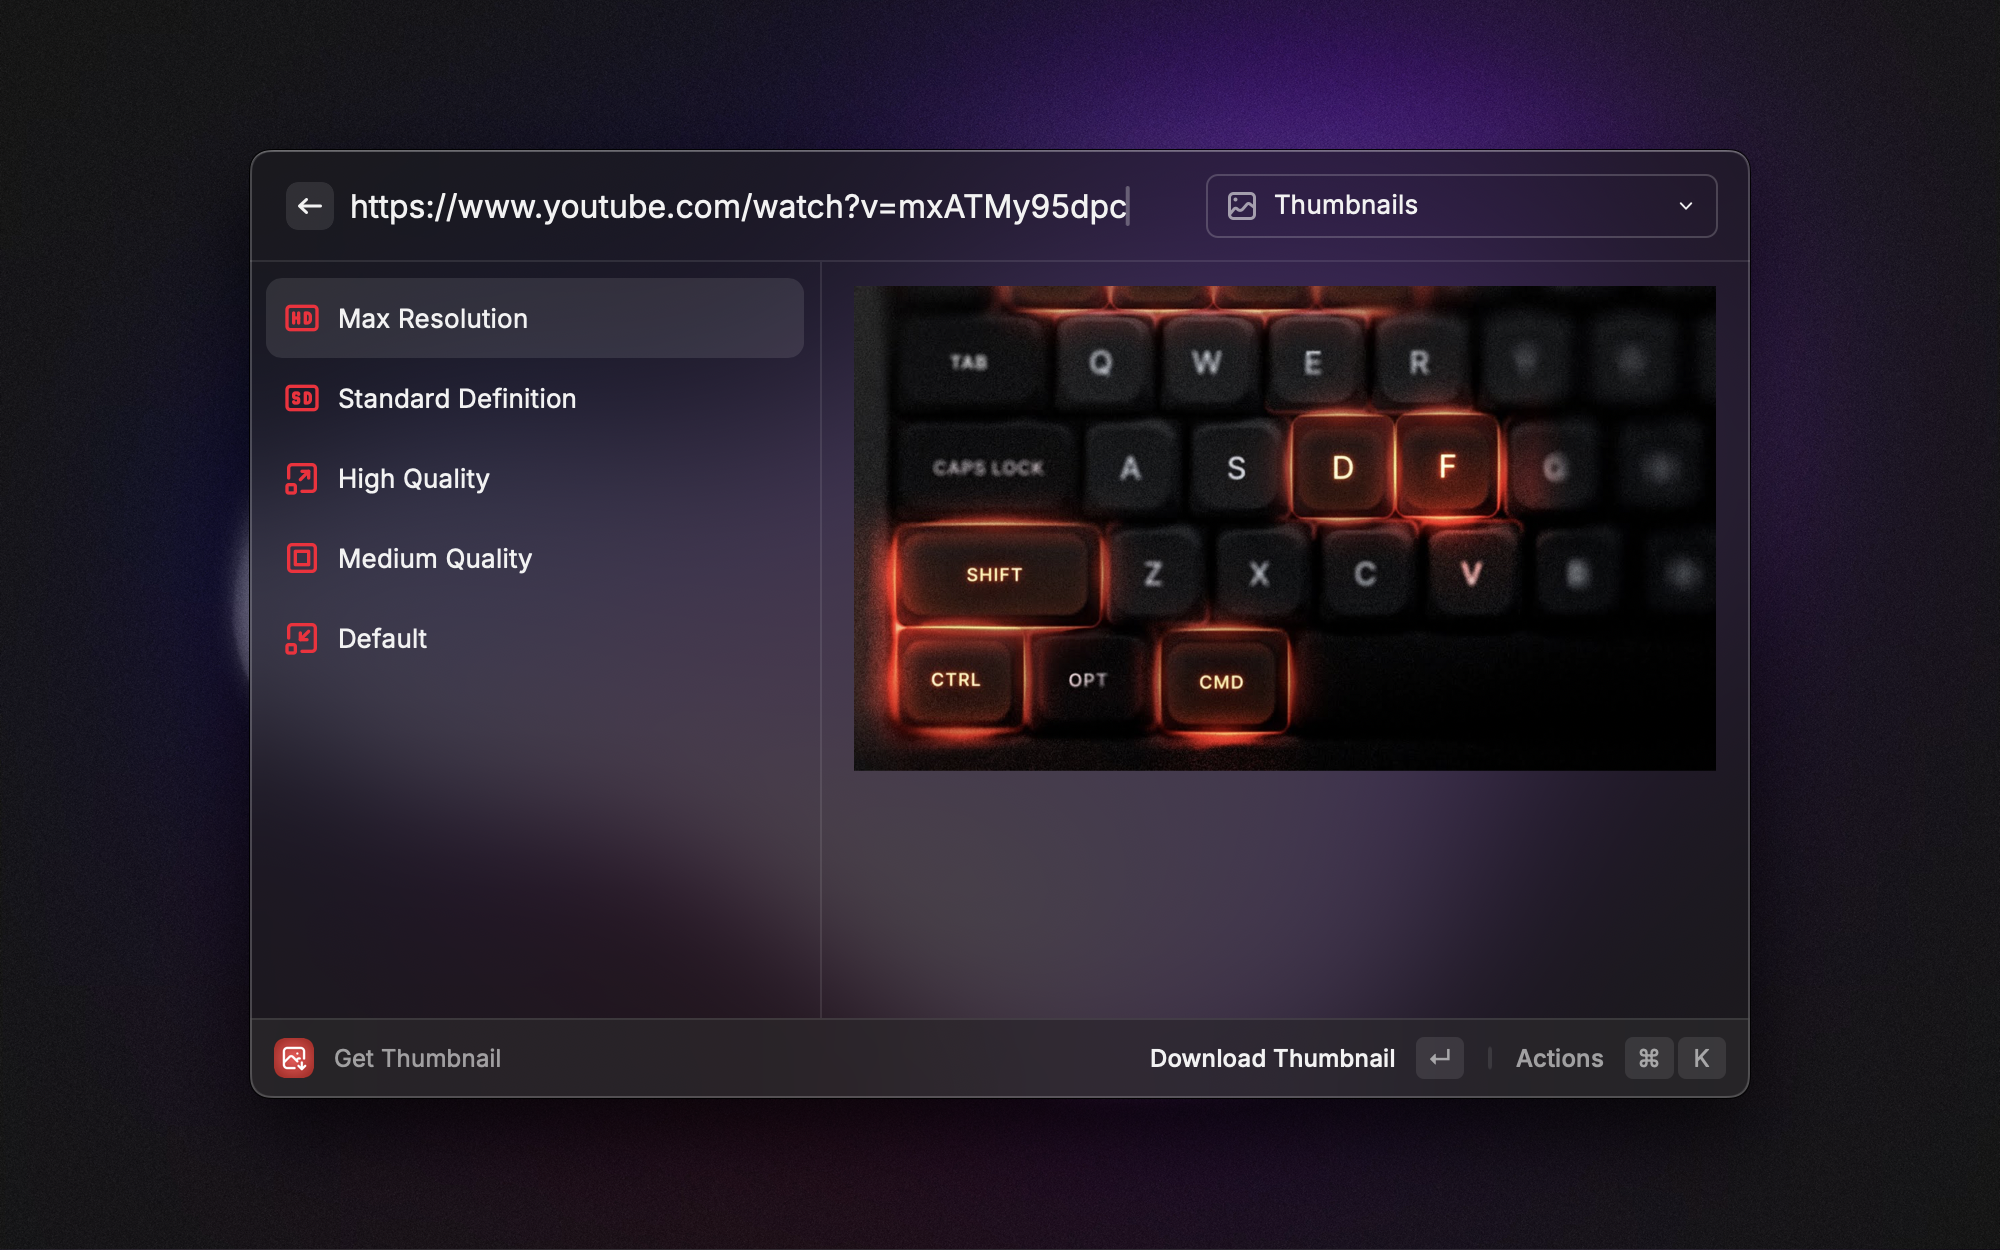
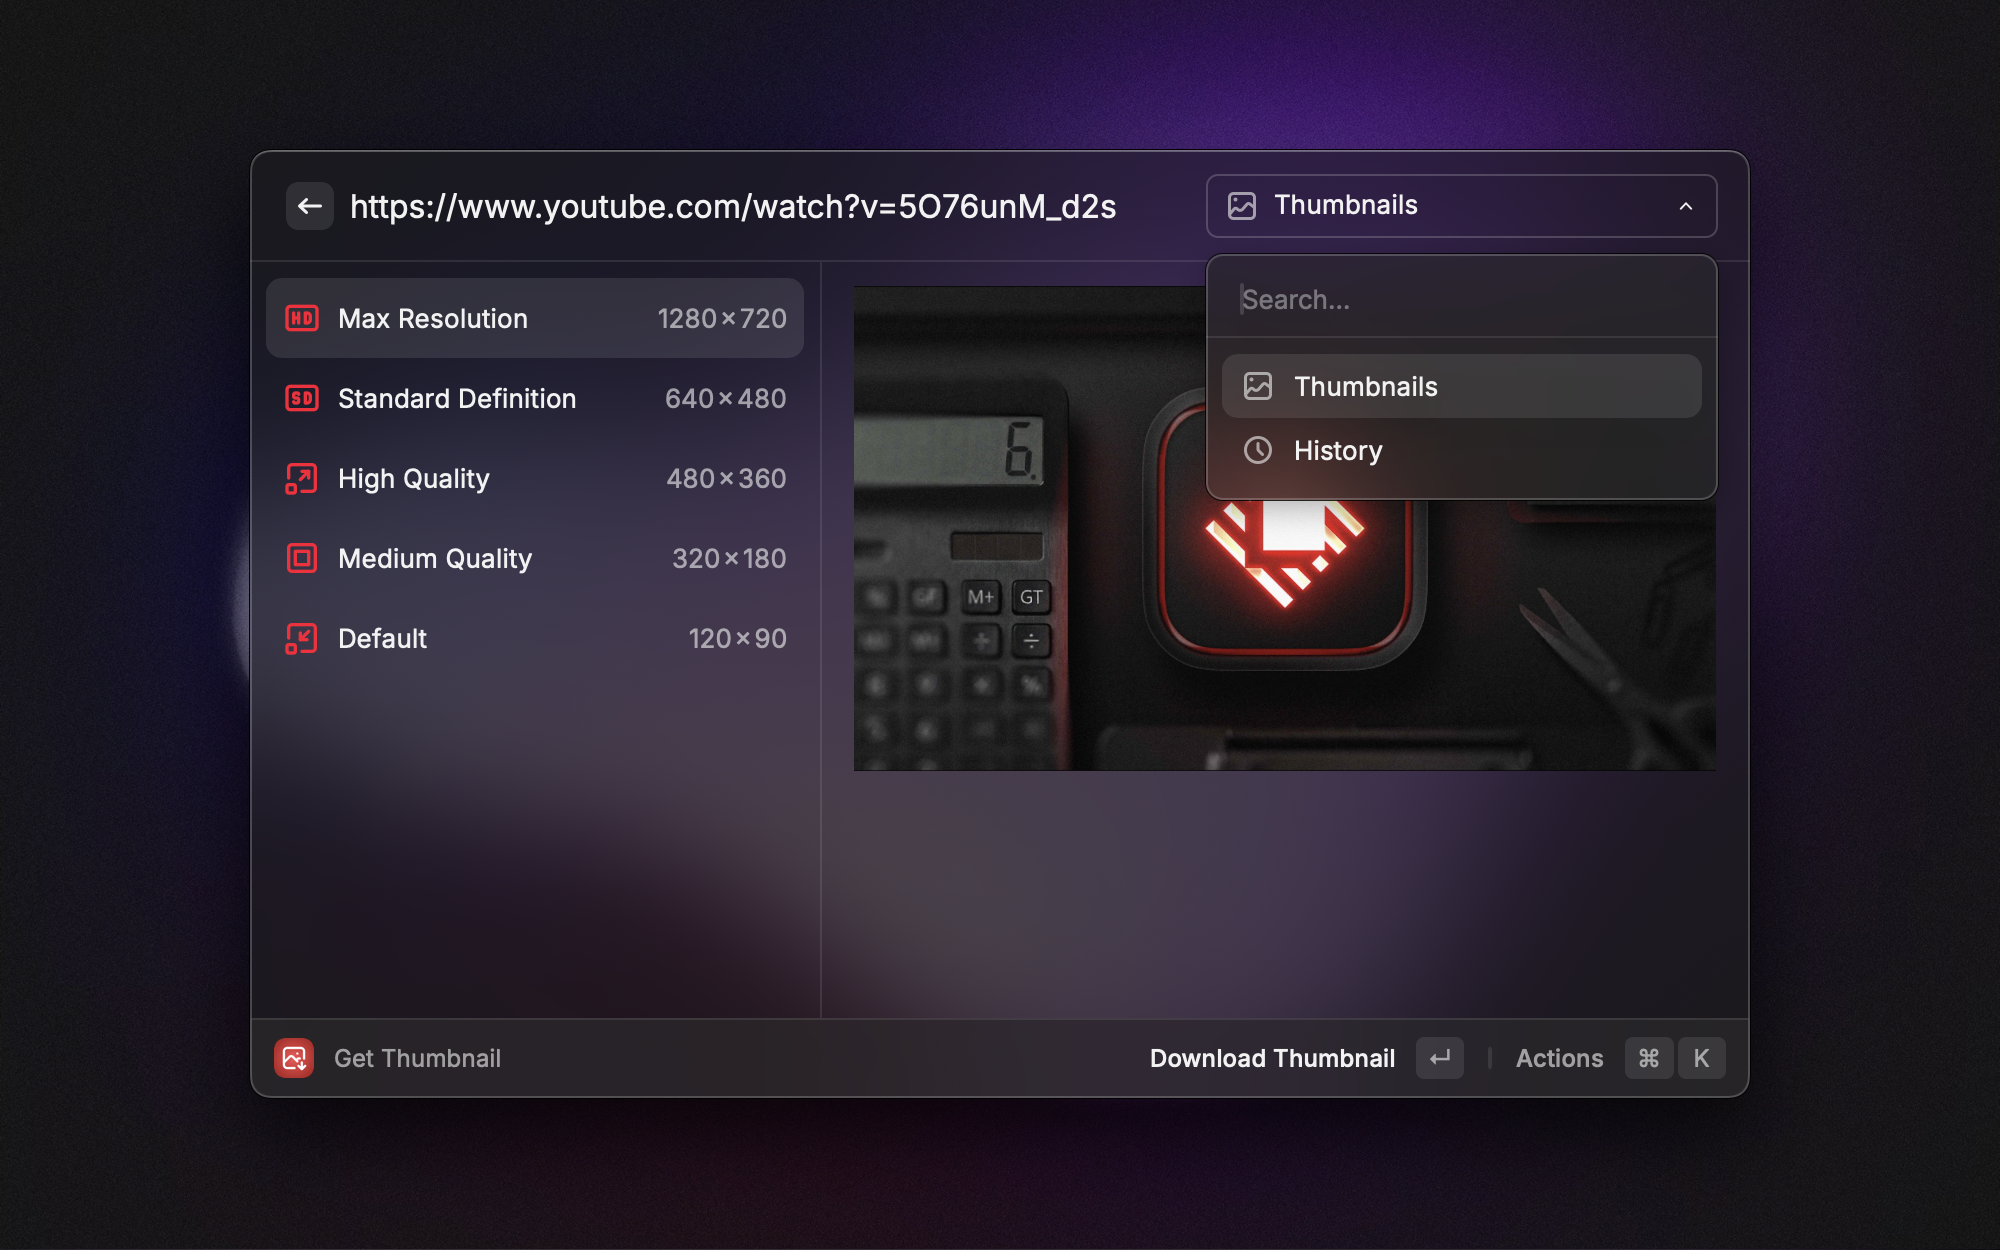
Update youtube-thumbnail extension (#26262)
* Update youtube-thumbnail extension

- Merge branch \'contributions/merge-1773318833777\'
- Pull contributions
- Update CHANGELOG.md
- Add thumbnail dimensions and new screenshots

* Update CHANGELOG.md and optimise images

---------

diff --git a/extensions/youtube-thumbnail/src/get-thumbnail.tsx b/extensions/youtube-thumbnail/src/get-thumbnail.tsx
@@ -526,6 +526,14 @@ export default function Command() {
           key={`${videoId}-${thumbnail.key}`}
           title={thumbnail.label}
           icon={getThumbnailVariantIcon(thumbnail.key)}
+          accessories={[
+            {
+              text: {
+                value: getThumbnailDimensions(thumbnail.key),
+                color: Color.SecondaryText,
+              },
+            },
+          ]}
           detail={<List.Item.Detail markdown={`![${thumbnail.label}](${thumbnail.url})`} />}
           actions={
             <ActionPanel>
@@ -560,6 +568,18 @@ function getThumbnailVariantIcon(variantKey: string) {
     source,
     tintColor: ICON_TINT_COLOR,
   };
+}
+
+function getThumbnailDimensions(variantKey: string) {
+  const dimensionMap: Record<string, string> = {
+    maxres: "1280 × 720",
+    sd: "640 × 480",
+    hq: "480 × 360",
+    mq: "320 × 180",
+    default: "120 × 90",
+  };
+
+  return dimensionMap[variantKey] ?? "Unknown size";
 }
 
 function getStatusMarkdown(params: {

diff --git a/extensions/youtube-thumbnail/CHANGELOG.md b/extensions/youtube-thumbnail/CHANGELOG.md
@@ -1,6 +1,10 @@
 # YouTube Thumbnail Grabber Changelog
 
-## [1.1.0] - 2026-03-12
+## [1.1.1] - 2026-03-12
+
+- Added thumbnail dimensions to list items
+
+## [1.1.0] - 2024-03-12
 
 ### Added
 
